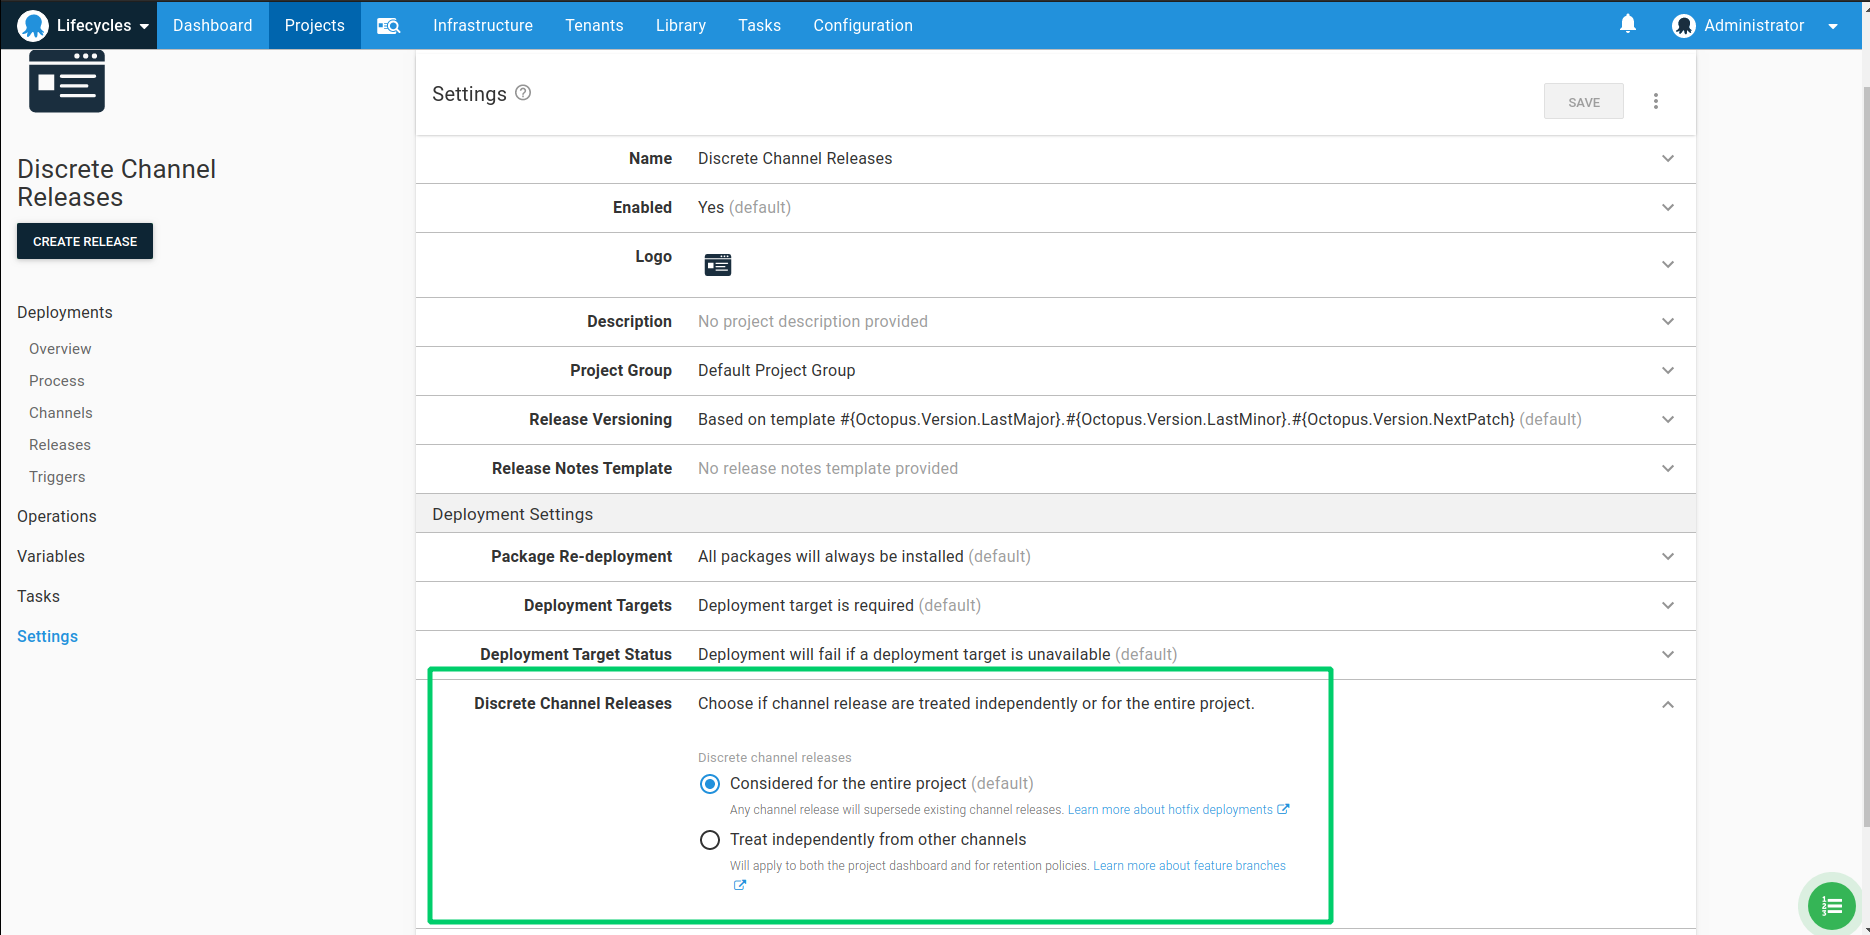
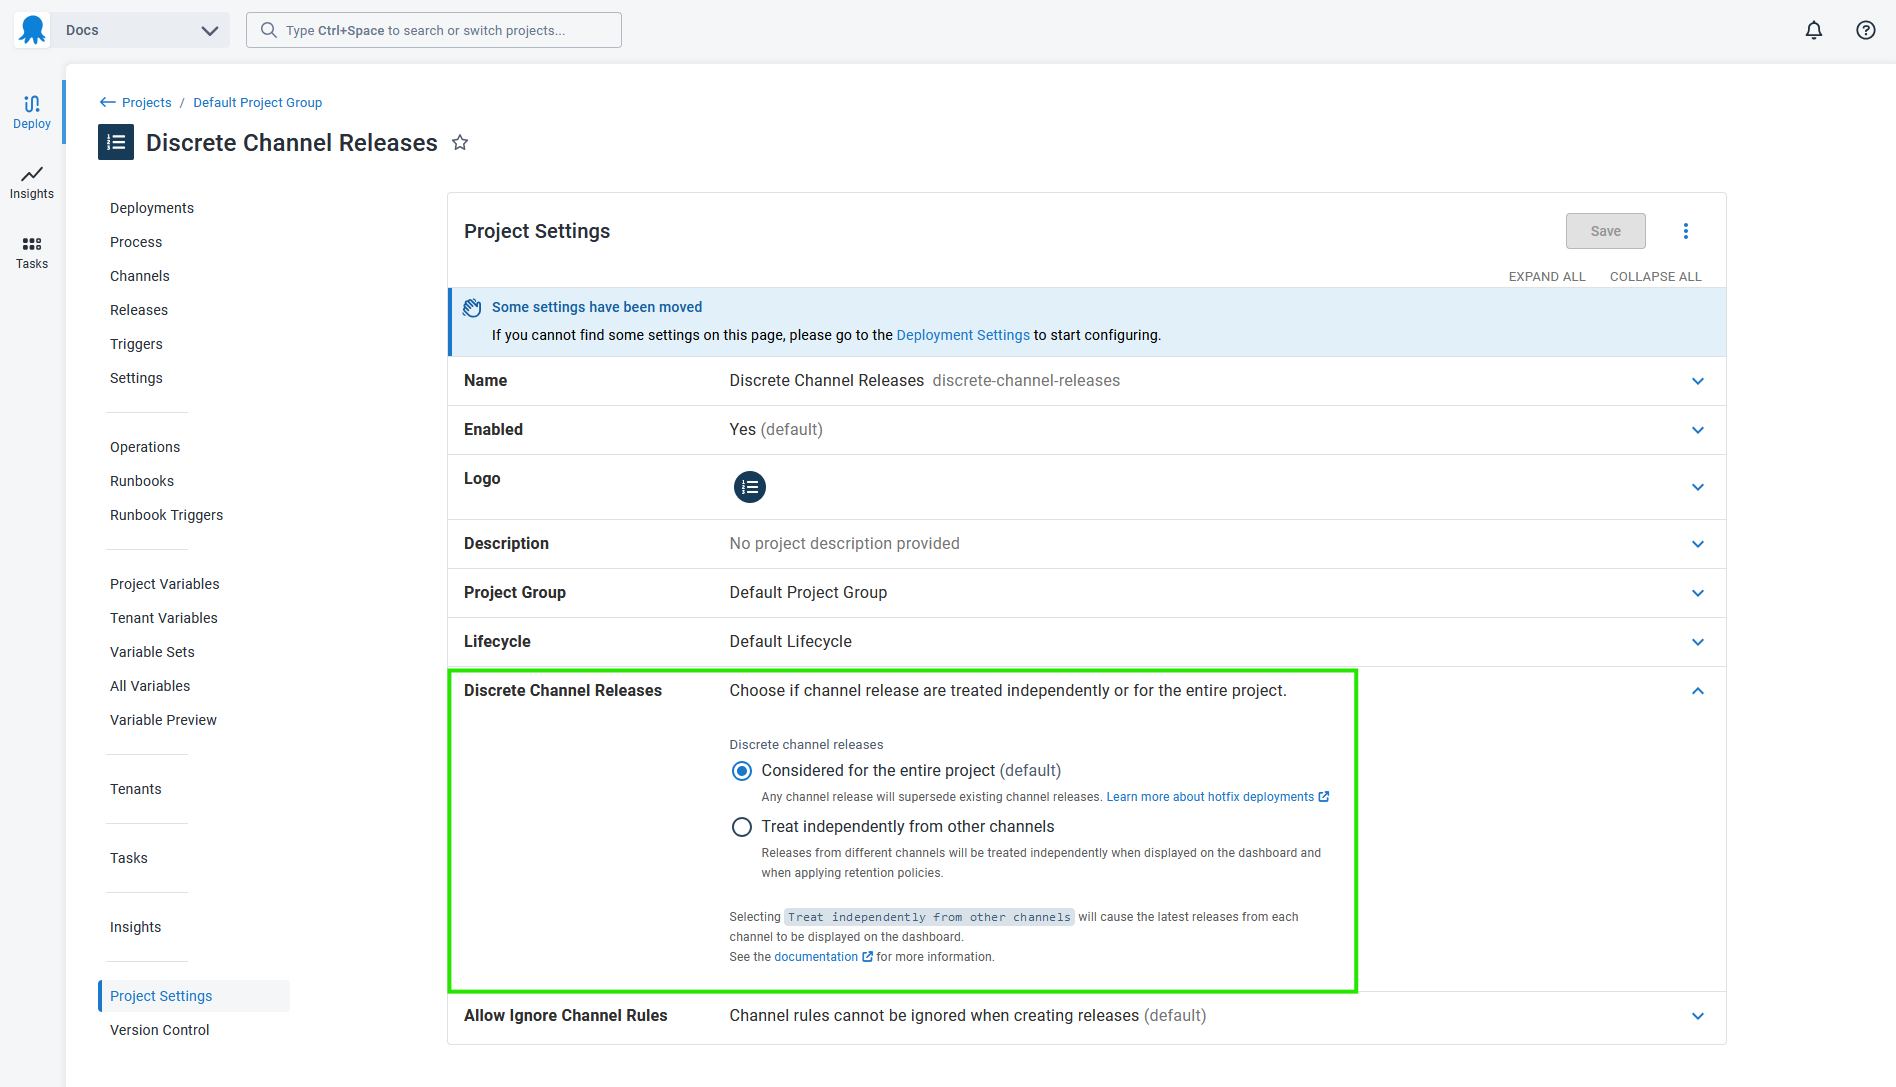
Update retention policy tentacle page

diff --git a/src/pages/docs/administration/retention-policies/retention-policy-tentacle-cleanup-and-troubleshooting.md b/src/pages/docs/administration/retention-policies/retention-policy-tentacle-cleanup-and-troubleshooting.md
@@ -1,8 +1,9 @@
 ---
 layout: src/layouts/Default.astro
 pubDate: 2023-01-01
-modDate: 2023-01-01
+modDate: 2024-08-02
 title: Retention policy Tentacle cleanup and troubleshooting
+icon: fa-bug
 description: Reviewing and troubleshooting why some files aren't cleaned up by Octopus retention policies.
 ---
 
@@ -73,13 +74,13 @@ Defining retention policies is done within lifecycles. Each phase can have a dif
 ![](/docs/administration/retention-policies/images/default-lifecycle-retention-policy.png)
 :::
 
-In this example the default for the Lifecycle is to Keep 3 releases on both Octopus Server and Tentacle.
+In this example the default for the lifecycle is to keep 3 releases on both Octopus Server and Tentacle.
 
-Learn more about [Lifecycles](/docs/releases/lifecycles/) and [Retention Policies](/docs/administration/retention-policies) on their own detailed pages.
+Learn more about [lifecycles](/docs/releases/lifecycles/) and [retention policies](/docs/administration/retention-policies) on their own detailed pages.
 
 ## Retention policies with channels {#retention-policy-channels}
 
-[Channels](/docs/releases/channels) can be used in Octopus to handle many different deployment scenarios. In some cases you may have a hotfix channel in which deployments, as they are promoted through their environments, should be considered as overriding deployments from the default channel for the given environment. Alternatively you may be using channels to deploy feature branches which involve having several concurrent releases active at any one time across different channels for the same environment. When using the feature branch type scenario, you will likely want retention policies to recognize that since both channels should be accessible at the same time, the retention policy rules should apply to each independently. This behavior can be enabled for each project via the `Discrete Channel Releases` flag under `Deployment settings` on the **Project ➜ Settings** page.
+[Channels](/docs/releases/channels) can be used in Octopus to handle many different deployment scenarios. In some cases you may have a hotfix channel in which deployments, as they are promoted through their environments, should be considered as overriding deployments from the default channel for the given environment. Alternatively you may be using channels to deploy feature branches which involve having several concurrent releases active at any one time across different channels for the same environment. When using the feature branch type scenario, you will likely want retention policies to recognize that since both channels should be accessible at the same time, the retention policy rules should apply to each independently. This behavior can be enabled for each project via the "Discrete Channel Releases" option on the **Project Settings** page.
 
 :::figure
 ![Discrete Channel Release](/docs/administration/retention-policies/images/discrete-channel-release.png)
@@ -87,9 +88,9 @@ Learn more about [Lifecycles](/docs/releases/lifecycles/) and [Retention Policie
 
 ## When the retention policy is run {#retention-policies-run}
 
-For a Tentacle the retention policy is run at the end of a deployment, for that project only. So for this example the deployment looks for the project (project-1) and finds all releases within the deployment journal. It finds 4 in total (current is never counted) leaving 3, knowing it just deployed one, it deletes one copy of each package.
+For a Tentacle the retention policy is run at the end of a deployment, for that project only. So for this example the deployment looks for the project (Project-1) and finds all releases within the deployment journal. It finds 4 in total (current is never counted) leaving 3, knowing it just deployed one, it deletes one copy of each package.
 
-So for Project-1 we have 8 packages and directories still remaining on the server after the deployment. The current, and then the 3 defined by the policy. This is for each package. Any packages for other projects (project-2) were not evaluated and not removed, even if it was the same package version. Project 2 is considered it's own trigger for that retention policy, and is assumed to have different variables and transformations, thus a unique set of extracted files.
+So for Project-1 we have 8 packages and directories still remaining on the server after the deployment. The current, and then the 3 defined by the policy. This is for each package. Any packages for other projects (Project-2) were not evaluated and not removed, even if it was the same package version. Project 2 is considered its own trigger for that retention policy, and is assumed to have different variables and transformations, thus a unique set of extracted files.
 
 See below the messages you will have in your raw deployment logs at the end of a deployment to that environment for the specific project:
 
@@ -115,10 +116,6 @@ See below the messages you will have in your raw deployment logs at the end of a
 You can find your packages in the `<Tentacle Home>\Files` directory.
 or `<Tentacle Home>\[Instance Name])\Files` if you have multiple 
 Tentacle instances on one machine.
-- For Windows Tentacles, the default directory is: `C:\Octopus\Files`
-- For Linux Tentacles, the default directory is: `/etc/octopus/files`
-
-Learn more about where Tentacle [files are stored](/docs/administration/managing-infrastructure/tentacle-configuration-and-file-storage/#Tentacleconfigurationandfilestorage-Filestorage).
 
 :::figure
 ![](/docs/administration/retention-policies/images/3278387.png)
@@ -126,7 +123,7 @@ Learn more about where Tentacle [files are stored](/docs/administration/managing
 
 By default your extracted package files can be found under `<Tentacle Home>\Applications\[environment name]\[package name]\`
 
-So if you have multiple packages you will have multiple directories.
+If you have multiple packages, you will have multiple directories.
 
 :::figure
 ![](/docs/administration/retention-policies/images/3278389.png)
@@ -134,7 +131,7 @@ So if you have multiple packages you will have multiple directories.
 
 ![](/docs/administration/retention-policies/images/3278388.png)
 
-If you have more directories than you think you should, check if they have a value in the deployment journal, if they do not they will have to be manually deleted.
+If you have more directories than you think you should, check if they have a value in the deployment journal. If they don't, you'll need to manually delete them.
 
 You can have multiple directories for the same version of each package like the following example:
 
@@ -146,6 +143,6 @@ This occurs when you have the same package in two different steps inside a singl
 
 ## Troubleshooting {#retention-policy-troubleshooting}
 
-If you upgraded from Tentacle 2.x to a modern version of Tentacle the deployment journal location moved. Your choices are to clean up any old deployments manually, merge your deployment journals to the new location or run this [PowerShell Script](https://gist.github.com/vanessalove/dbc656b01df40939dcf8) on your Tentacles.
+If you upgraded from Tentacle 2.x to a modern version of Tentacle, the deployment journal location moved. Your choices are to clean up any old deployments manually, merge your deployment journals to the new location, or run this [PowerShell script](https://gist.github.com/vanessalove/dbc656b01df40939dcf8) on your Tentacles.
 
 If your deployment journal is deleted for any reason, you will need to manually remove any remaining packages and package extraction directories that are not in the new deployment journal (which is automatically created on the next deployment).
